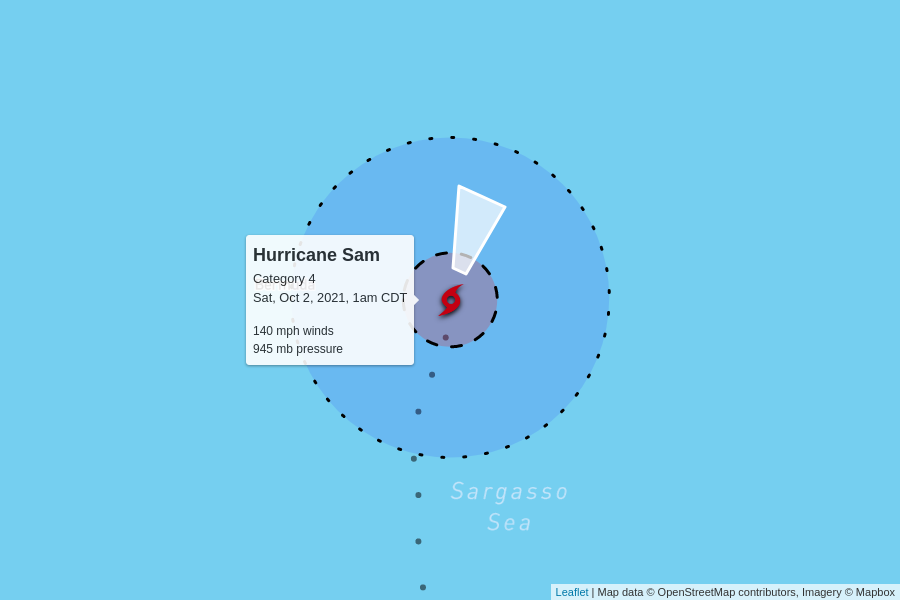
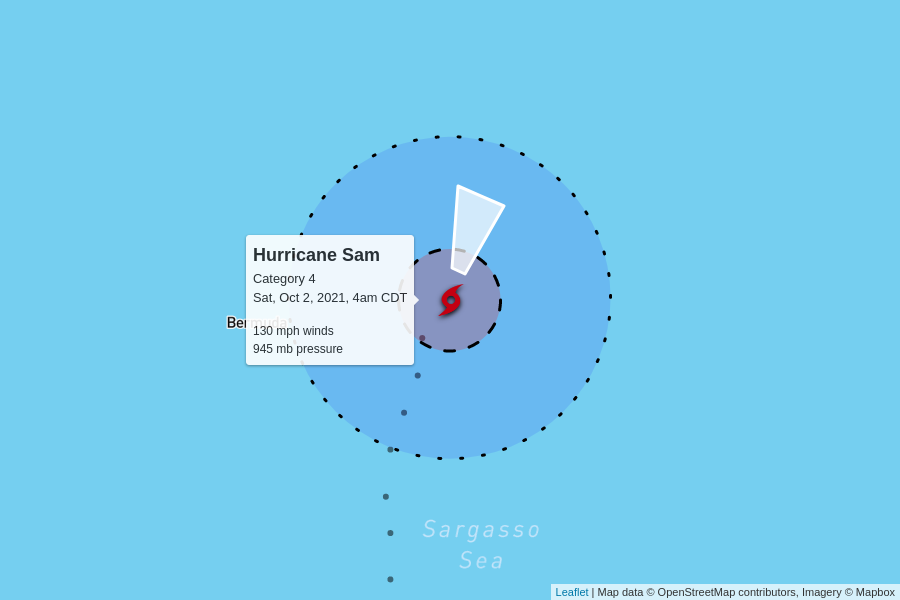
automatic update

diff --git a/docs/index.html b/docs/index.html
@@ -100,7 +100,7 @@
         <td colspan="6" class="storm category-4" >
           <h2>
             Hurricane Sam - Category 4
-            <p class="updated">last updated <span data-time>2021-10-02T06:00:00.000Z</span></p>
+            <p class="updated">last updated <span data-time>2021-10-02T09:00:00.000Z</span></p>
           </h2>
         </td>
       </tr>
@@ -115,7 +115,7 @@
       </tr>
       <tr>
         <td class="spacer"></td>
-        <td>140 mph</td>
+        <td>130 mph</td>
         <td>945 mb</td>
         <td>
           17 mph to the north-northeast
@@ -144,7 +144,7 @@
         <td colspan="6" class="storm category-0" >
           <h2>
             Tropical Storm Victor
-            <p class="updated">last updated <span data-time>2021-10-02T03:00:00.000Z</span></p>
+            <p class="updated">last updated <span data-time>2021-10-02T09:00:00.000Z</span></p>
           </h2>
         </td>
       </tr>
@@ -159,12 +159,12 @@
       </tr>
       <tr>
         <td class="spacer"></td>
-        <td>60 mph</td>
-        <td>999 mb</td>
+        <td>50 mph</td>
+        <td>1001 mb</td>
         <td>
           13 mph to the west-northwest
           <br/>
-          <span style="display: inline-block; font-size: 1.5em; transform: rotate(290deg);">↑</span>
+          <span style="display: inline-block; font-size: 1.5em; transform: rotate(300deg);">↑</span>
         </td>
         <td><a href="https://raw.githubusercontent.com/mgwalker/atlantic-hurricanes/main/data/csv/AL202021.csv">AL202021.csv</a></td>
         <td><a href="https://www.nhc.noaa.gov/archive/2021/VICTOR.shtml?">NHC advisories</a></td>
